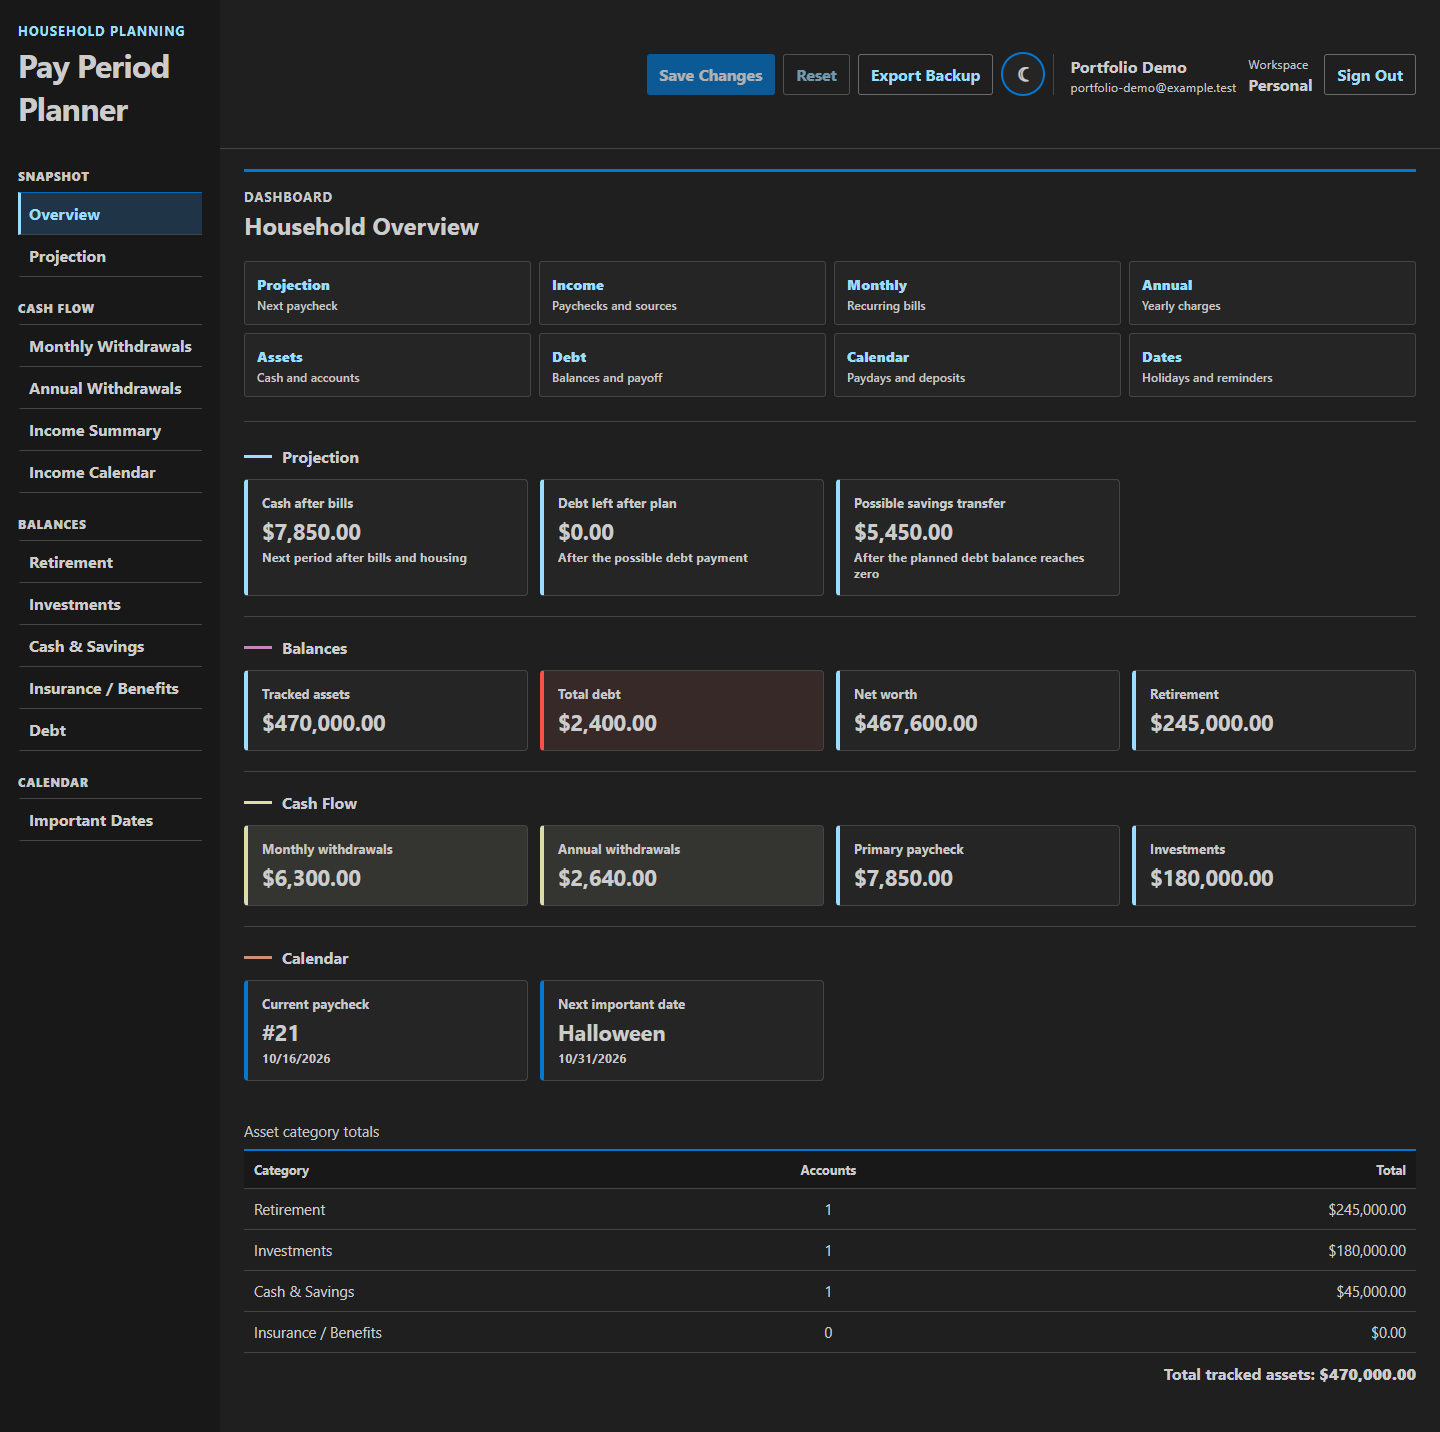
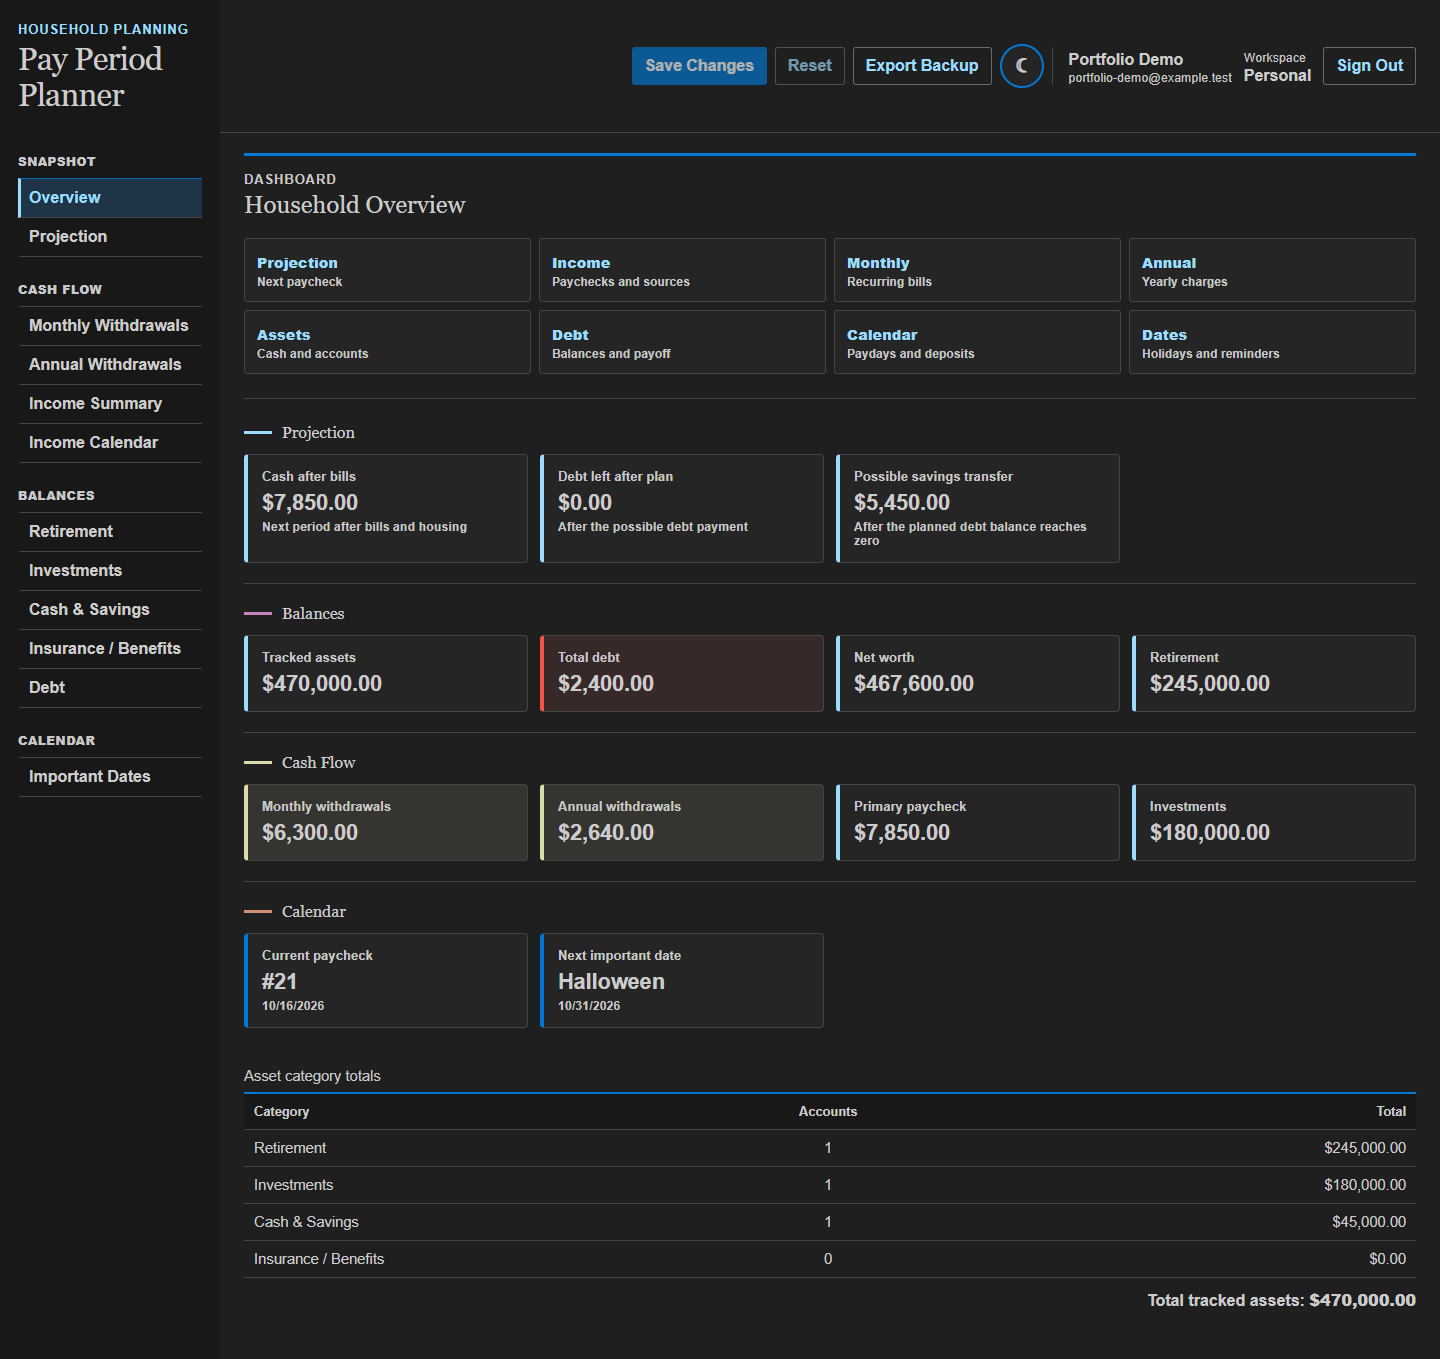
Use shared portfolio typography in Planner (#115)

diff --git a/frontend/src/theme.css b/frontend/src/theme.css
@@ -1,4 +1,10 @@
 :root {
+  --font-ui:
+    Arial, Helvetica, ui-sans-serif, system-ui, -apple-system, BlinkMacSystemFont, 'Segoe UI',
+    sans-serif;
+  --font-display: Georgia, 'Times New Roman', serif;
+  --font-code: Consolas, 'Courier New', monospace;
+
   color-scheme: light;
   --surface: #ffffff;
   --surface-soft: #f3f3f3;
@@ -110,4 +116,16 @@ input:focus-visible,
 select:focus-visible {
   outline: 3px solid var(--focus);
   outline-offset: 3px;
+}
+
+h1,
+h2 {
+  font-family: var(--font-display);
+  font-weight: 500;
+}
+pre,
+code,
+kbd,
+samp {
+  font-family: var(--font-code);
 }

diff --git a/frontend/src/observability/observability.css b/frontend/src/observability/observability.css
@@ -2,14 +2,7 @@
   background: var(--surface-soft);
   color: var(--text);
   display: grid;
-  font-family:
-    Inter,
-    ui-sans-serif,
-    system-ui,
-    -apple-system,
-    BlinkMacSystemFont,
-    'Segoe UI',
-    sans-serif;
+  font-family: var(--font-ui);
   min-height: 100vh;
   padding: 24px;
   place-items: center;

diff --git a/frontend/src/features/financials/FinancialsPage.css b/frontend/src/features/financials/FinancialsPage.css
@@ -1,13 +1,6 @@
 .expenses-shell {
   color: var(--text);
-  font-family:
-    Inter,
-    ui-sans-serif,
-    system-ui,
-    -apple-system,
-    BlinkMacSystemFont,
-    'Segoe UI',
-    sans-serif;
+  font-family: var(--font-ui);
   margin: 0;
   min-height: 100vh;
   padding: 0;

diff --git a/docs/visual-system.md b/docs/visual-system.md
@@ -1,0 +1,13 @@
+# Shared visual system
+
+The portfolio, Pay Period Planner and DSA Dojo share a system-font pairing:
+
+- Interface text: Arial, Helvetica and system sans-serif fallbacks.
+- Display headings: Georgia, Times New Roman and serif fallbacks.
+- Code: Consolas, Courier New and monospace fallbacks.
+
+Fonts are supplied by the device; no font service or remote font request is required.
+
+Dark Modern uses #1F1F1F for the canvas, #181818 for side panels, #CCCCCC for body text, #0078D4 for actions and focus, and #9CDCFE for readable blue accents. Yellow #DCDCAA, magenta #C586C0 and salmon #CE9178 distinguish supporting details. Error states use #F85149. Green and teal are not brand or interface accents. Light mode, where supported, keeps neutral surfaces and blue interactions.
+
+Application screenshots are real browser captures. Planner captures use an isolated synthetic workspace. Marketing thumbnails are illustrative and are refreshed when the visible design changes.

diff --git a/README.md b/README.md
@@ -240,3 +240,7 @@ The [production-readiness roadmap](docs/production-readiness-roadmap.md) records
 completed foundations and remaining deployment work. The
 [known limitations register](docs/known-limitations.md) owns the complete set
 of accepted gaps, mitigations, and revisit triggers.
+
+## Visual identity
+
+See [the shared visual system](docs/visual-system.md) for the font pairing, Dark Modern palette and screenshot policy.

diff --git a/docs/README.md b/docs/README.md
@@ -131,3 +131,7 @@ When behavior changes:
 
 Absence from the manifest is not a defect by itself. The corpus is intentionally
 smaller than the repository.
+
+## Visual system
+
+[Shared visual system](visual-system.md) owns the font pairing, neutral Dark Modern colors and screenshot policy.
